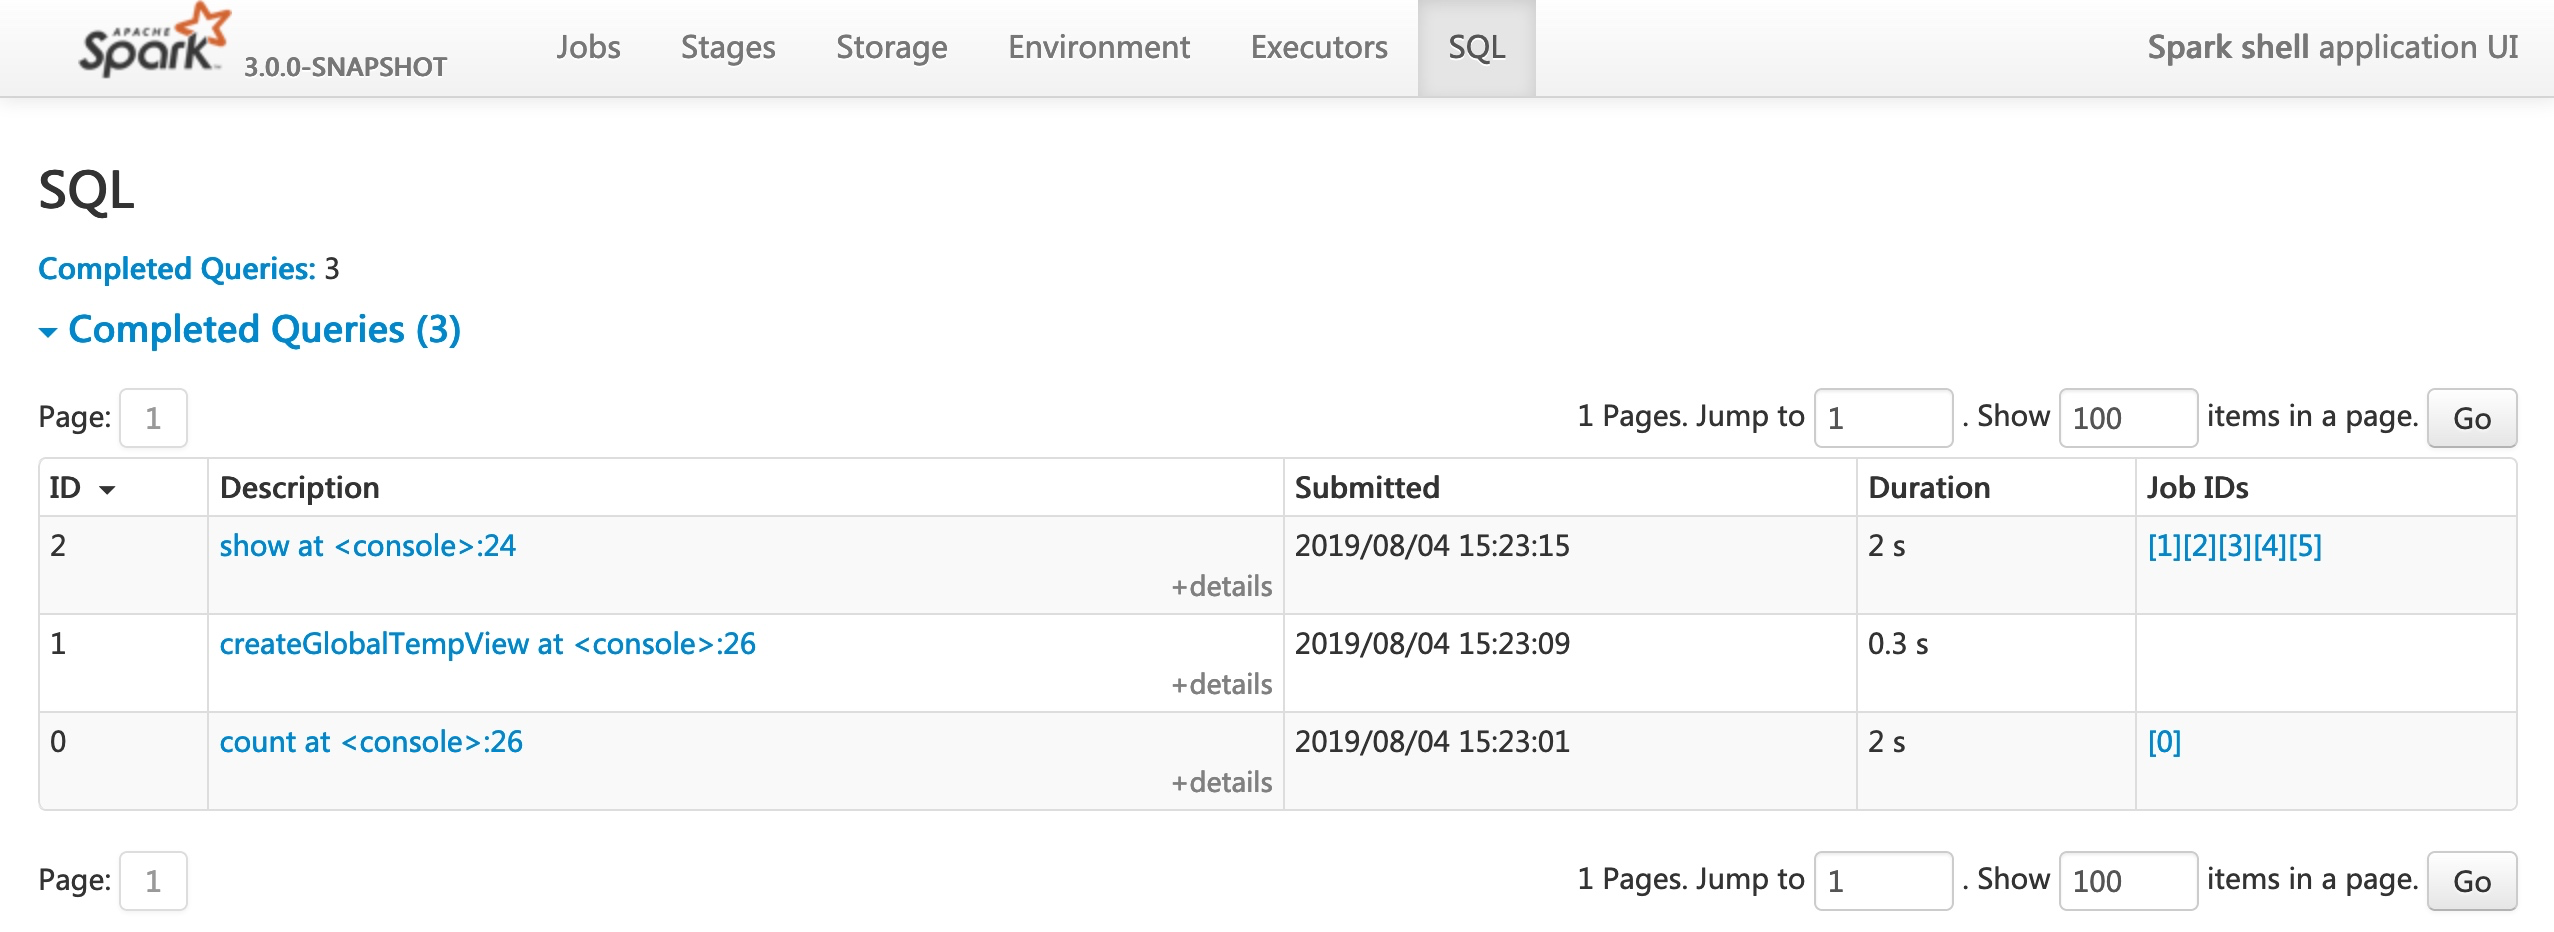
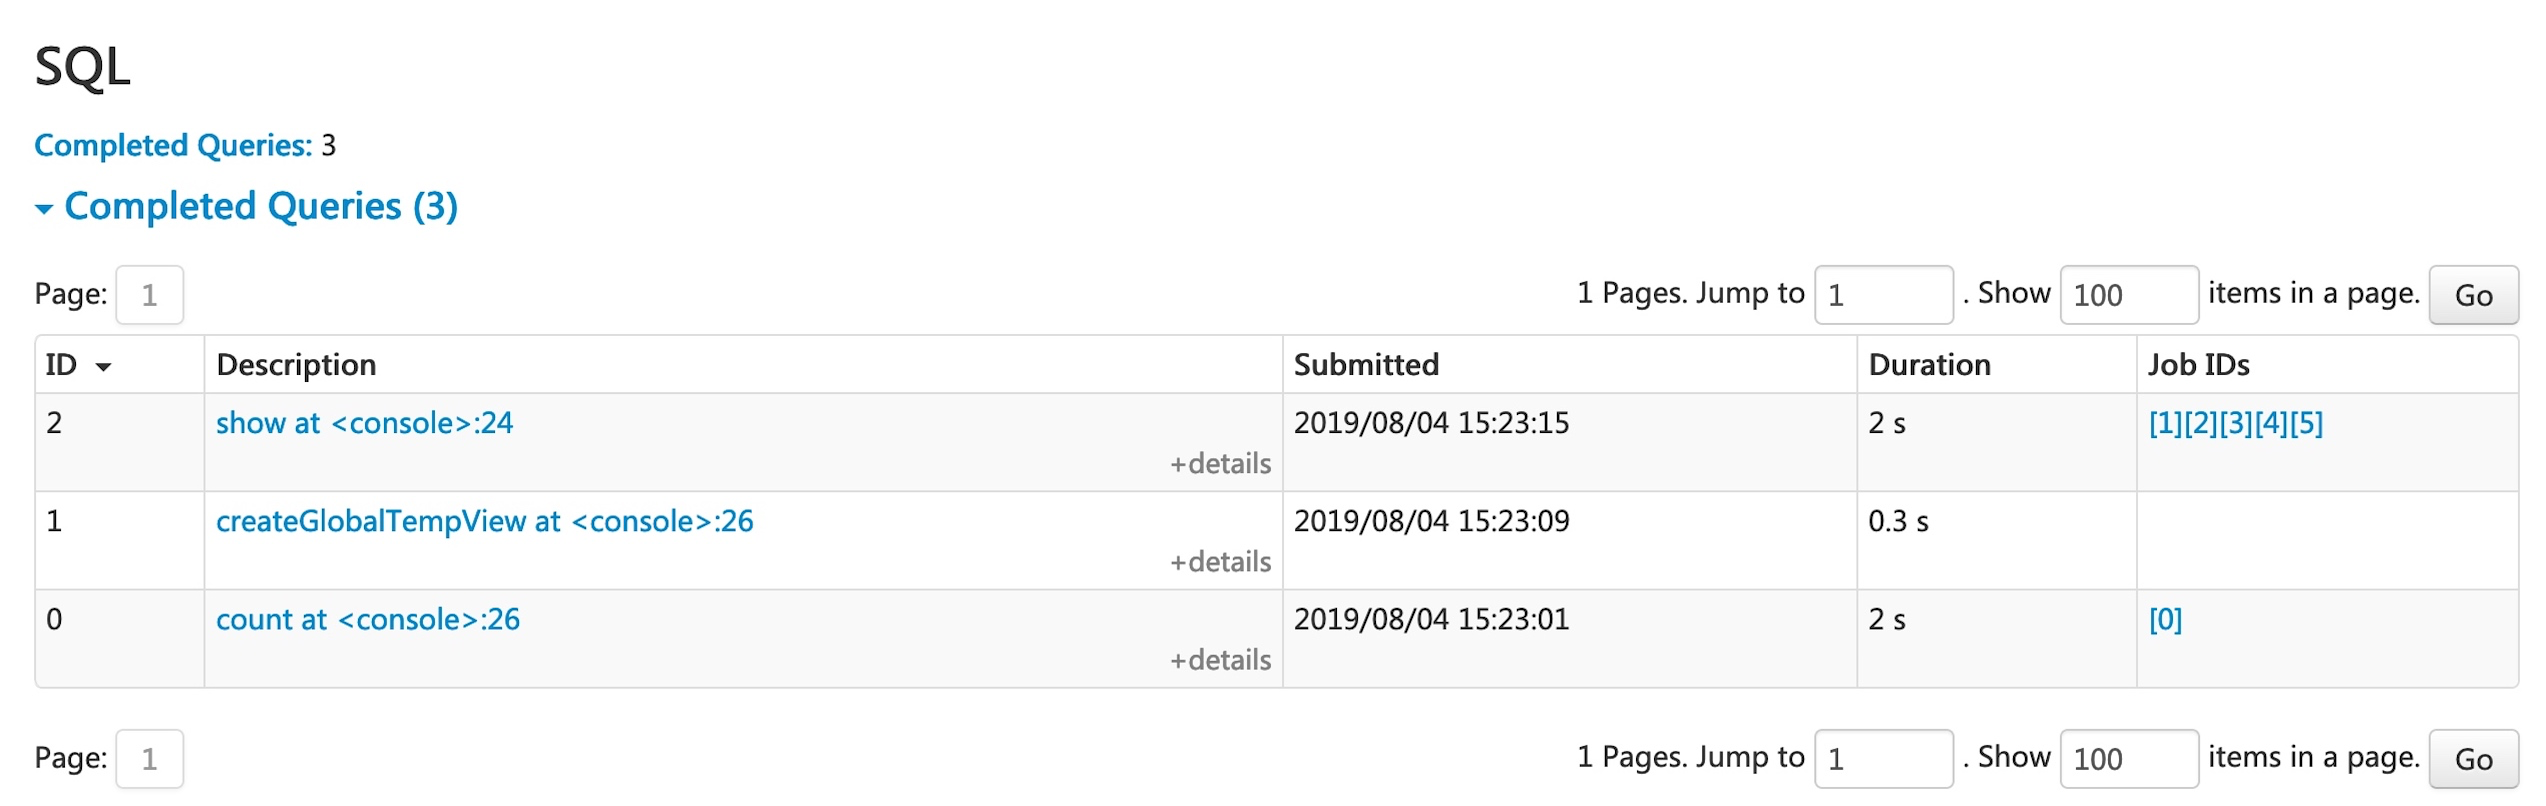
[SPARK-28539][WEBUI][DOC] Document Executors page
### What changes were proposed in this pull request?
1, add a basic doc for executor page
2, btw, move the version number in the document of SQL page outside

### Why are the changes needed?
Spark web UIs are being used to monitor the status and resource consumption of your Spark applications and clusters. However, we do not have the corresponding document. It is hard for end users to use and understand them.

### Does this PR introduce any user-facing change?
yes, the doc is changed

### How was this patch tested?
locally build

<img width="468" alt="图片" src="https://user-images.githubusercontent.com/7322292/63758724-d2727980-c8ee-11e9-8380-cbae51453629.png">

Closes #25596 from zhengruifeng/doc_ui_exe.

diff --git a/docs/web-ui.md b/docs/web-ui.md
@@ -205,6 +205,39 @@ The Executors tab displays summary information about the executors that were cre
 application, including memory and disk usage and task and shuffle information. The Storage Memory
 column shows the amount of memory used and reserved for caching data.
 
+<p style="text-align: center;">
+  <img src="img/webui-exe-tab.png"
+       title="Executors Tab"
+       alt="Executors Tab"
+       width="80%" />
+  <!-- Images are downsized intentionally to improve quality on retina displays -->
+</p>
+
+The Executors tab provides not only resource information (amount of memory, disk, and cores used by each executor)
+but also performance information ([GC time](tuning.html#garbage-collection-tuning) and shuffle information).
+
+<p style="text-align: center;">
+  <img src="img/webui-exe-err.png"
+       title="Stderr Log"
+       alt="Stderr Log"
+       width="80%" />
+  <!-- Images are downsized intentionally to improve quality on retina displays -->
+</p>
+
+Clicking the 'stderr' link of executor 0 displays detailed [standard error log](spark-standalone.html#monitoring-and-logging)
+in its console.
+
+<p style="text-align: center;">
+  <img src="img/webui-exe-thread.png"
+       title="Thread Dump"
+       alt="Thread Dump"
+       width="80%" />
+  <!-- Images are downsized intentionally to improve quality on retina displays -->
+</p>
+
+Clicking the 'Thread Dump' link of executor 0 displays the thread dump of JVM on executor 0, which is pretty useful
+for performance analysis.
+
 ## SQL Tab
 If the application executes Spark SQL queries, the SQL tab displays information, such as the duration,
 jobs, and physical and logical plans for the queries. Here we include a basic example to illustrate
